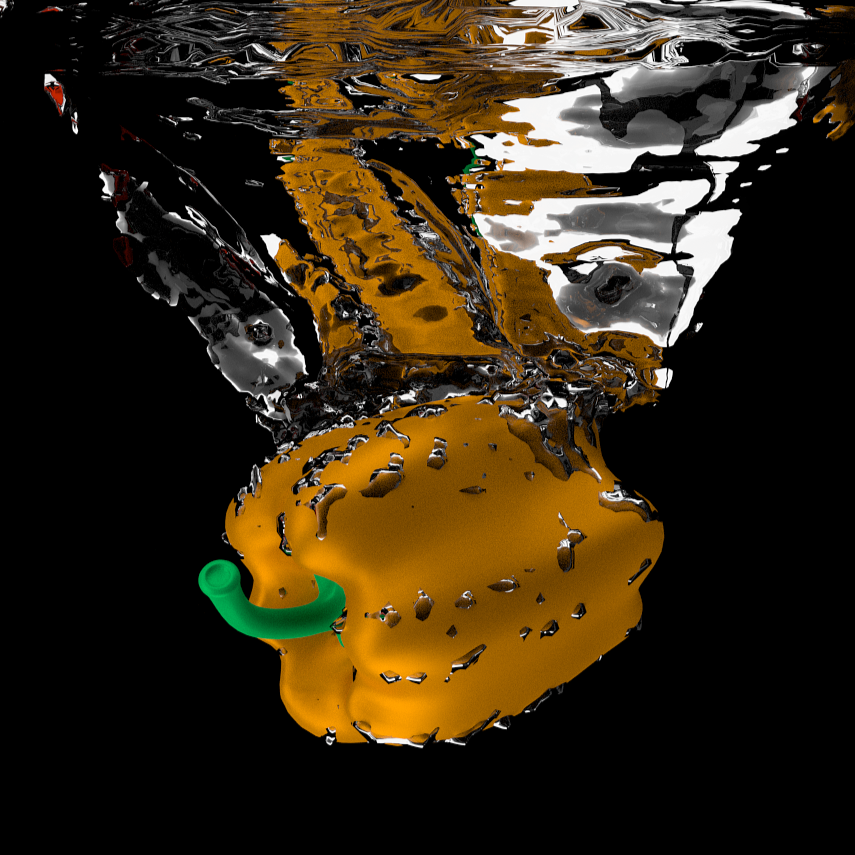
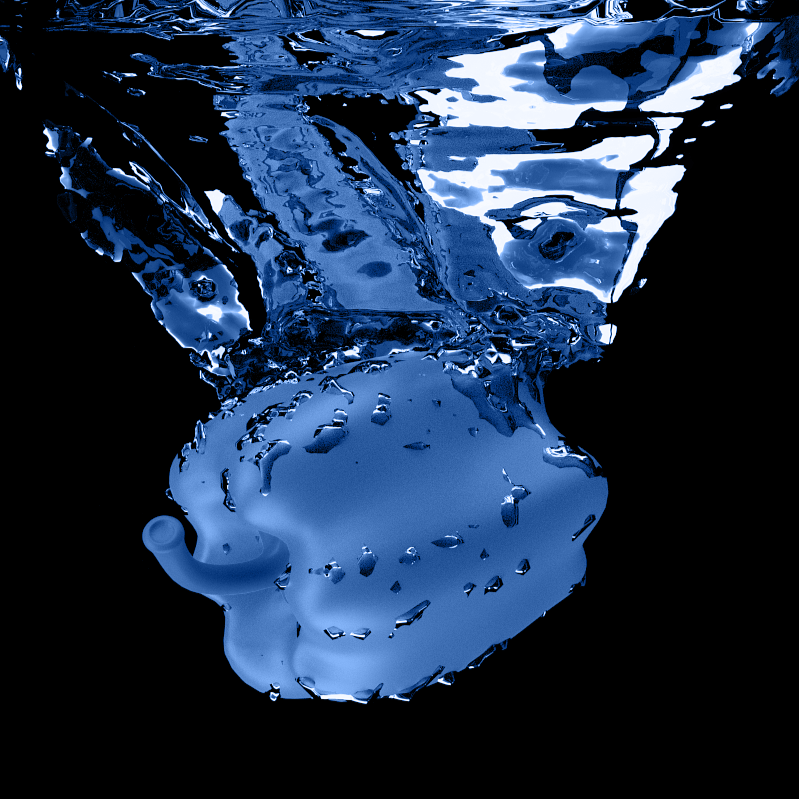
assets change

diff --git a/components/courses.tsx b/components/courses.tsx
@@ -17,7 +17,7 @@ const courses = [
     benefits: ["1-3 months core course", "6 month specialization program", "Exclusive e-books & learning Resources", "Enrollment Benefits"],
     tools: ["Ps", "Ai", "Procreate"],
     accentColor: "from-primary/25 to-primary/8",
-    image: "/sketching-2d-art.jpg",
+    image: "/sketching-2d-art.png",
   },
   {
     id: 2,
@@ -28,7 +28,7 @@ const courses = [
     benefits: ["1-3 months core course", "6 month specialization program", "Exclusive e-books & learning Resources", "Enrollment Benefits"],
     tools: ["Maya", "3ds Max"],
     accentColor: "from-primary/20 to-primary/5",
-    image: "/3d-modelling.jpg",
+    image: "/3d-modelling.png",
   },
   {
     id: 3,
@@ -39,7 +39,7 @@ const courses = [
     benefits: ["Space planning", "3D visualization", "Exclusive e-books & learning Resources", "Real-world projects"],
     tools: ["SketchUp", "AutoCAD", "3ds Max"],
     accentColor: "from-primary/27 to-primary/11",
-    image: "/interior-design.jpg",
+    image: "/interior-design.png",
   },
   {
     id: 4,
@@ -50,7 +50,7 @@ const courses = [
     benefits: ["Game engine training", "Level design", "Exclusive e-books & learning Resources", "Portfolio projects"],
     tools: ["Unity", "Unreal", "Blender"],
     accentColor: "from-primary/26 to-primary/9",
-    image: "/game-design.jpg",
+    image: "/game-design.png",
   },
   {
     id: 5,
@@ -72,7 +72,7 @@ const courses = [
     benefits: ["Diploma certification", "Portfolio development", "Exclusive e-books & learning Resources", "Job placement assistance"],
     tools: ["Ae", "Nuke", "Houdini", "Pr"],
     accentColor: "from-primary/28 to-primary/12",
-    image: "/vfx-animation.jpg",
+    image: "/vfx-animation.png",
   },
   {
     id: 7,
@@ -83,7 +83,7 @@ const courses = [
     benefits: ["Traditional & digital techniques", "Portfolio development", "Exclusive e-books & learning Resources", "Exhibition opportunities"],
     tools: ["Ps", "Procreate", "Traditional Media"],
     accentColor: "from-primary/24 to-primary/7",
-    image: "/fine-arts.jpg",
+    image: "/fine-arts.png",
   },
   {
     id: 8,
@@ -94,7 +94,7 @@ const courses = [
     benefits: ["1-3 months core course", "6 month specialization program", "Exclusive e-books & learning Resources", "Enrollment Benefits"],
     tools: ["Id", "Ai", "Lr", "Ps"],
     accentColor: "from-primary/30 to-primary/10",
-    image: "/graphics-design.jpg",
+    image: "/graphics-design.png",
   },
 ]
 
@@ -255,11 +255,6 @@ export default function Courses() {
                       className="w-full h-full border border-foreground/15 rounded-xl sm:rounded-2xl p-6 flex flex-col items-center justify-center relative bg-cover bg-center"
                       style={{ backgroundImage: `url(${course.image})` }}
                     >
-                      {/* Blue overlay at 50% opacity */}
-                      <div 
-                        className="absolute inset-0 rounded-xl sm:rounded-2xl bg-primary/50"
-                      ></div>
-                      
                       {/* Badge at top */}
                       <div className="absolute top-4 left-4 z-10">
                         <span className="text-xs sm:text-sm font-bold text-white uppercase tracking-wider bg-[#071727] px-3 py-1 rounded">
